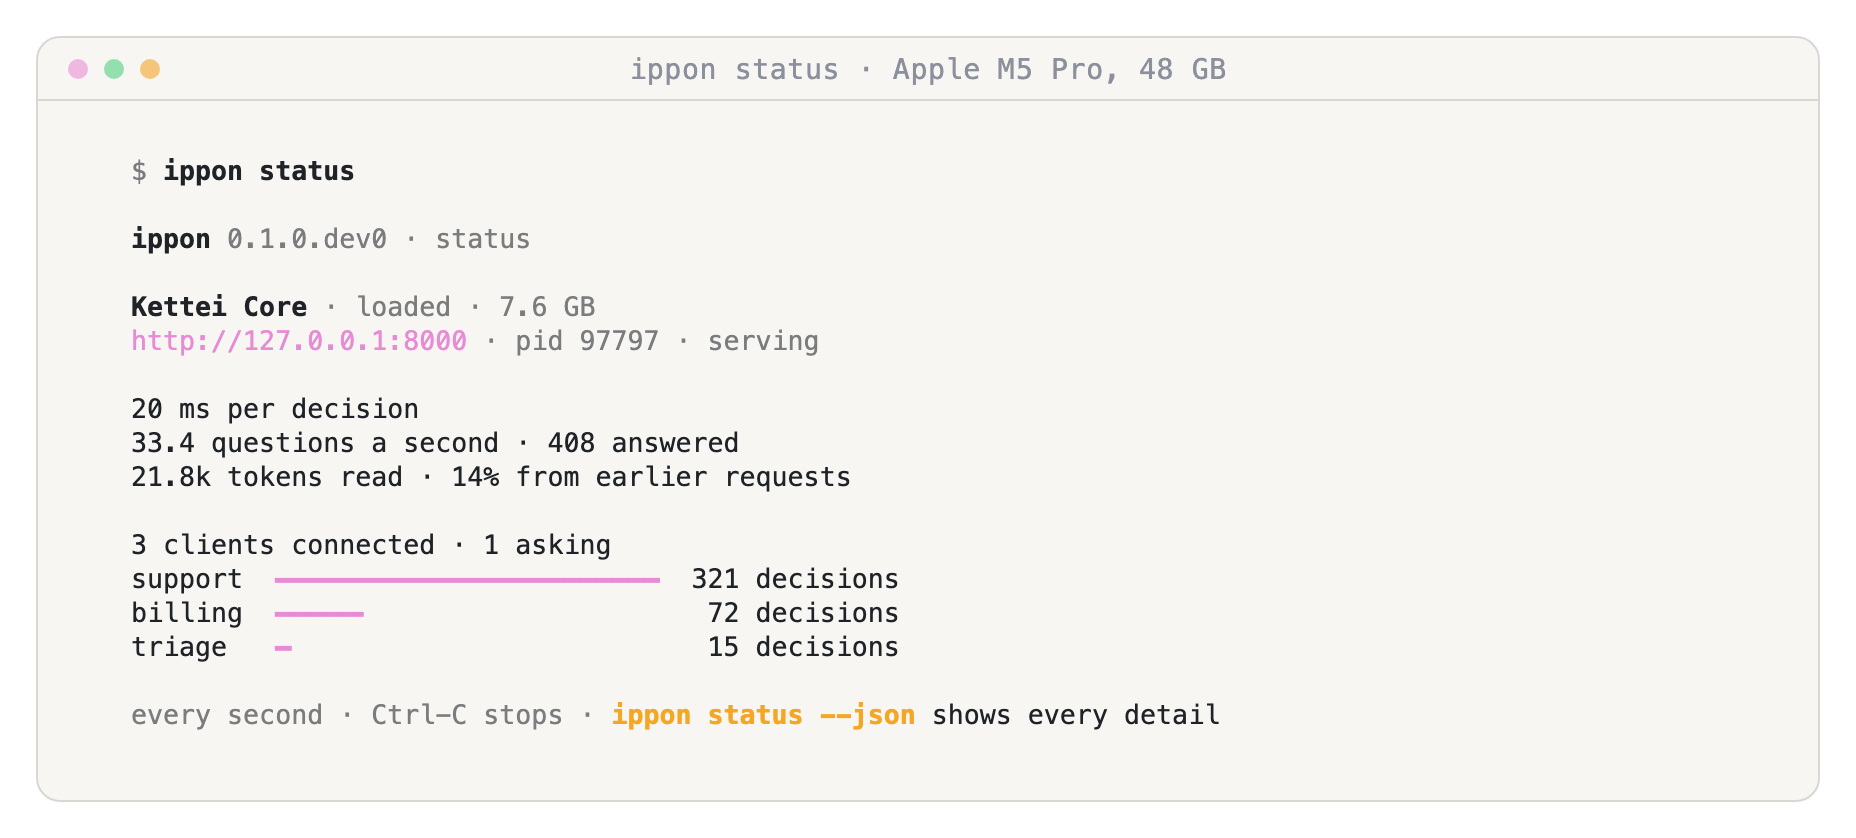
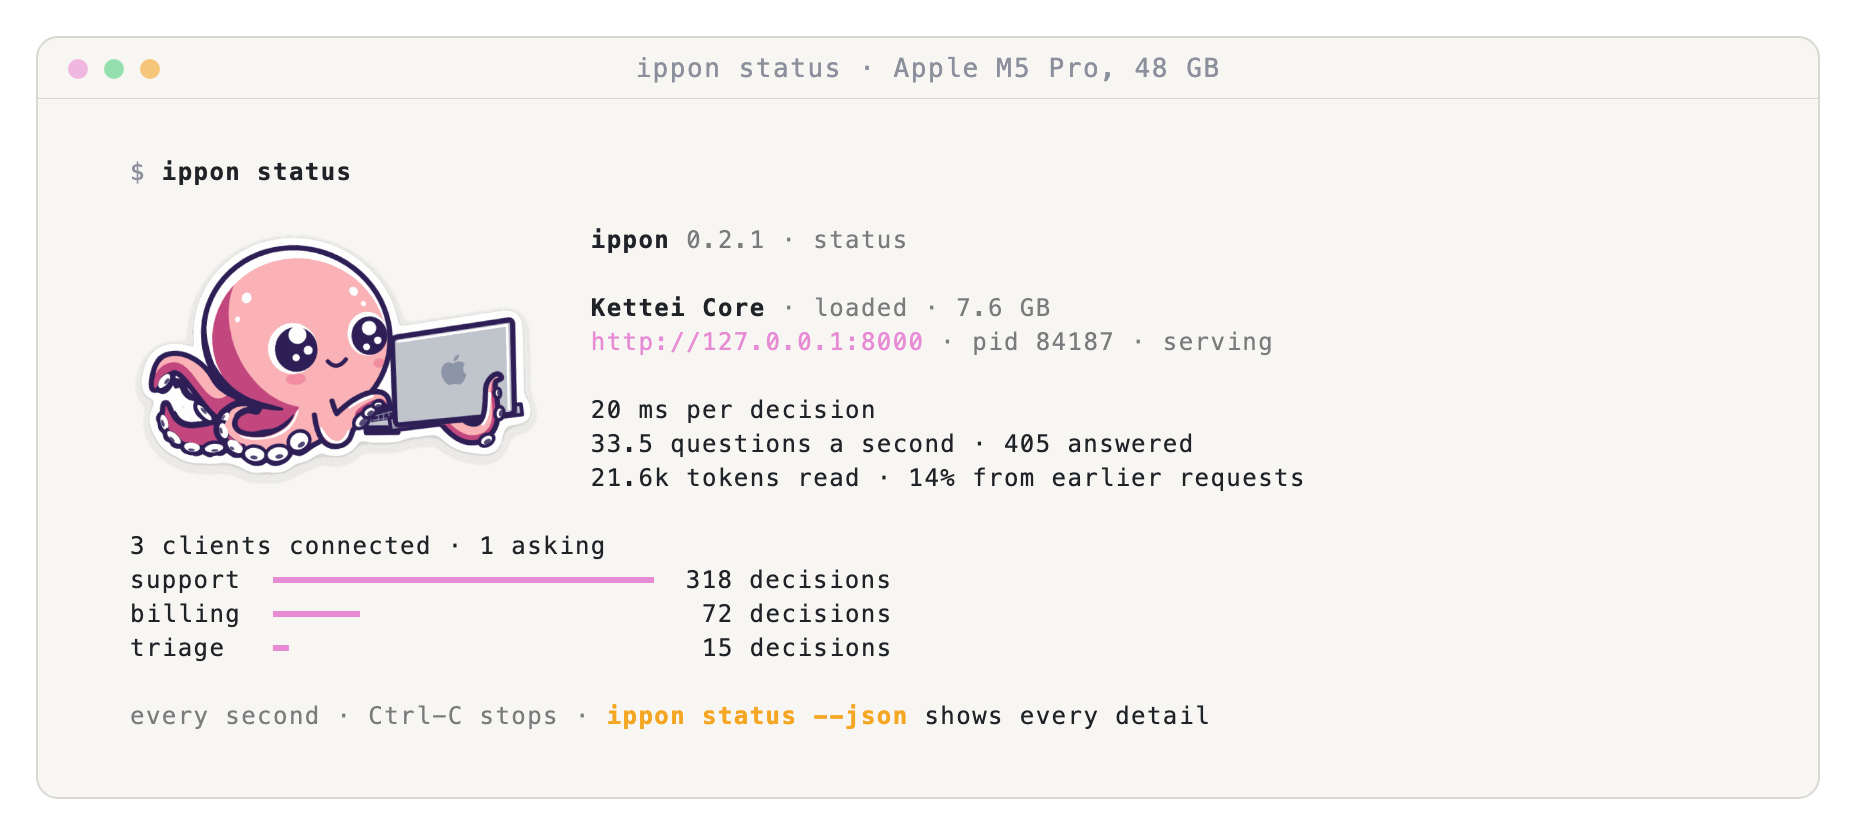
Capture the README's terminal windows on 0.2.1
Every window is captured again on 0.2.1, so each shows what this release
prints: Inky beside the banner, serve's header and status, setup's picker
and banner, and the media example on a new clip. The alt texts give the
new captures' numbers.

diff --git a/README.md b/README.md
@@ -72,7 +72,7 @@ made to the ippon command.
 <p align="center">
   <picture>
     <source media="(prefers-color-scheme: dark)" srcset="docs/assets/cli-ready-dark.png">
-    <img alt="ippon setup finished: Kettei Core is on this Mac, answered its first question in 52 ms, and ippon lists the commands to use it with" src="docs/assets/cli-ready-light.png" width="680">
+    <img alt="ippon setup opens with Inky, Sqwish's octopus, beside ippon's name, its tagline, its version and this Mac (Apple M5 Pro, 48 GB memory, 37 GB for the GPU), then finds Kettei Core already on this Mac, sees it answer its first question in 38 ms and lists the commands to use it with" src="docs/assets/cli-ready-light.png" width="680">
   </picture>
 </p>
 
@@ -82,7 +82,7 @@ made to the ippon command.
 <p align="center">
   <picture>
     <source media="(prefers-color-scheme: dark)" srcset="docs/assets/cli-setup-dark.png">
-    <img alt="ippon setup on an M5 Pro with 48 GB: the decision models listed with their precision, size, whether they fit this Mac and what they read, Kettei Core first and highlighted, every model at full precision, the largest marked tight on this Mac" src="docs/assets/cli-setup-light.png" width="680">
+    <img alt="ippon setup on an M5 Pro with 48 GB lists the decision models with their precision, size, whether they fit this Mac and what they read, Kettei Core first and highlighted, every model at full precision but one at 8 bits, the largest marked tight on this Mac" src="docs/assets/cli-setup-light.png" width="680">
   </picture>
 </p>
 
@@ -184,7 +184,7 @@ line for each answer it sends, and `ippon start` runs the same server in the bac
 <p align="center">
   <picture>
     <source media="(prefers-color-scheme: dark)" srcset="docs/assets/cli-serve-dark.png">
-    <img alt="ippon serve kettei-core shows Inky, Sqwish's octopus, beside Kettei Core, serving at http://127.0.0.1:8000, ready in 1.9 s, then prints a line for each of four answers to a client named support, with the time, 20 to 50 ms, the tokens read and each question's answer, and on the last line 24 tokens kept from an earlier reading" src="docs/assets/cli-serve-light.png" width="680">
+    <img alt="ippon serve kettei-core shows Inky, Sqwish's octopus, beside Kettei Core, serving at http://127.0.0.1:8000, ready in 1.5 s, then prints a line for each of four answers to a client named support, with the time, 19 to 37 ms, the tokens read and each question's answer, and on the last line 24 tokens kept from an earlier reading" src="docs/assets/cli-serve-light.png" width="680">
   </picture>
 </p>
 
@@ -204,7 +204,7 @@ that URL too. In a terminal, `ippon status` watches live throughput, cache reuse
 <p align="center">
   <picture>
     <source media="(prefers-color-scheme: dark)" srcset="docs/assets/cli-status-dark.png">
-    <img alt="ippon status shows Kettei Core, loaded in 7.6 GB, and its server watched live: 20 ms per decision, 33.4 questions answered a second, 408 answered, 21.8k tokens read with 14% from earlier requests, 3 clients connected, and a bar for each client's decisions, support 321, billing 72 and triage 15" src="docs/assets/cli-status-light.png" width="680">
+    <img alt="ippon status shows Inky beside Kettei Core, loaded in 7.6 GB, and its server watched live, 20 ms per decision, 33.5 questions answered a second, 405 answered, 21.6k tokens read with 14% from earlier requests, then 3 clients connected and a bar for each client's decisions, support 318, billing 72 and triage 15" src="docs/assets/cli-status-light.png" width="680">
   </picture>
 </p>
 
@@ -264,7 +264,7 @@ with Decider.load("d1-2b:bf16") as model:
 <p align="center">
   <picture>
     <source media="(prefers-color-scheme: dark)" srcset="docs/assets/cli-media-dark.png">
-    <img alt="A photo of the Wright brothers' first flight, page 1 of the US Constitution and a 3-second clip of a rolling ball, with d1-2B's answers: an aircraft 99.8%, a law or charter 98.8%, a ball rolls 98.8%" src="docs/assets/cli-media-light.png" width="680">
+    <img alt="A photo of the Wright brothers' first flight, page 1 of the US Constitution and a 3-second clip of a rolling ball, with d1-2B's answers, an aircraft 99.8%, a law or charter 93.6%, a ball rolls 98.7%" src="docs/assets/cli-media-light.png" width="680">
   </picture>
 </p>
 
@@ -630,7 +630,7 @@ Ollama's bar averages its highest memory on each build it shares with ippon, ove
 <p align="center">
   <picture>
     <source media="(prefers-color-scheme: dark)" srcset="docs/assets/cli-help-dark.png">
-    <img alt="ippon --help: every command with one line on what it does, and 3 to start with, ippon setup, ippon claude and ippon start" src="docs/assets/cli-help-light.png" width="760">
+    <img alt="ippon --help lists every command with one line on what it does, and 3 to start with, ippon setup, ippon claude and ippon start" src="docs/assets/cli-help-light.png" width="760">
   </picture>
 </p>
 
